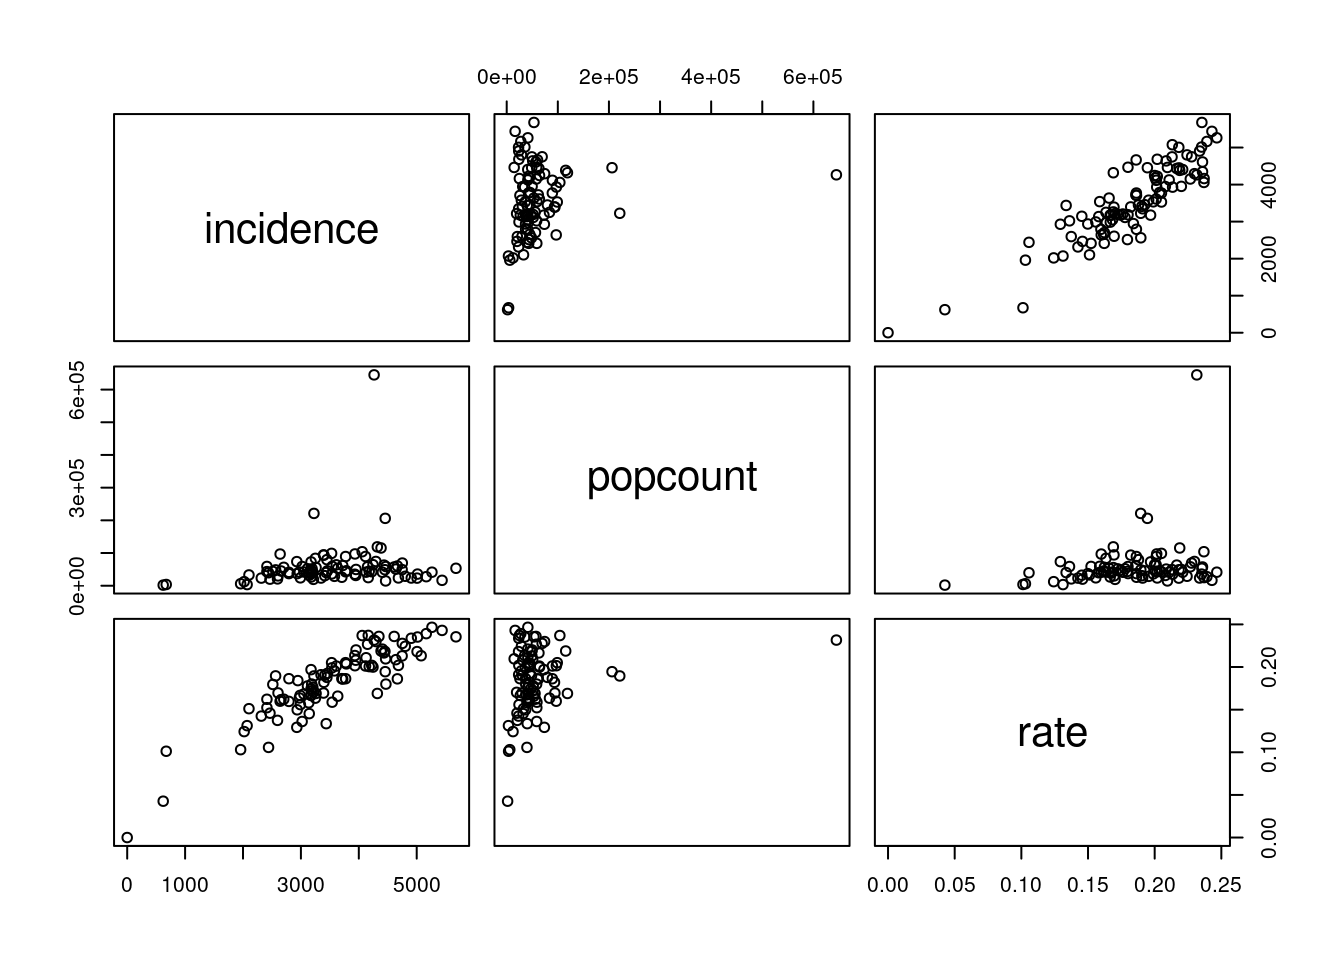
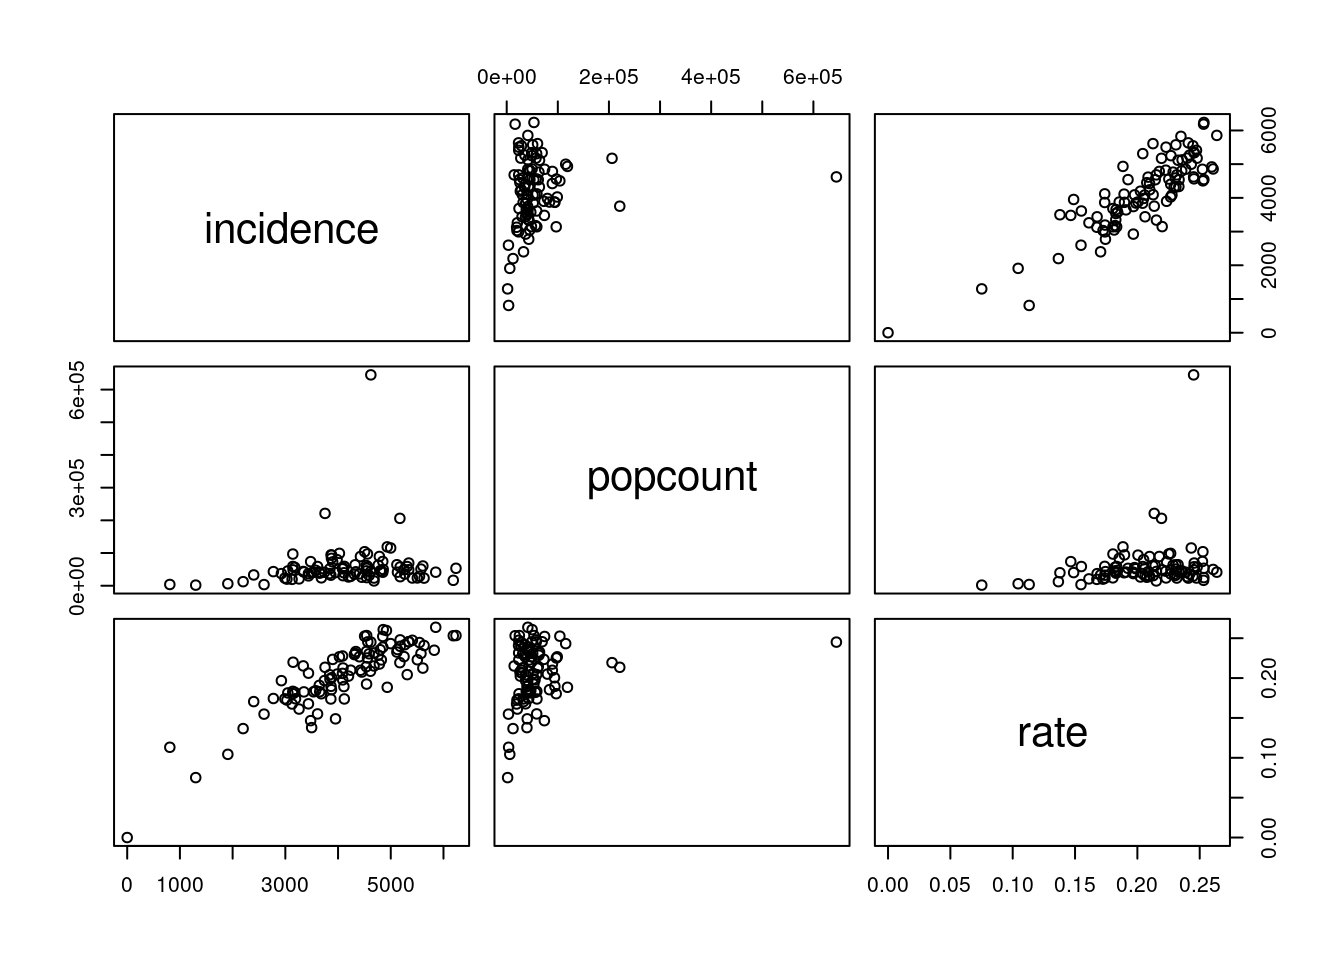
2022-01-24

diff --git a/docs/index.html b/docs/index.html
@@ -10,7 +10,7 @@
 
 
 
-<meta name="date" content="2022-01-21" />
+<meta name="date" content="2022-01-24" />
 
 <title>Covid-19 Stats for Denmark</title>
 
@@ -258,7 +258,7 @@ $(document).ready(function () {
 
 
 <h1 class="title toc-ignore">Covid-19 Stats for Denmark</h1>
-<h4 class="date">2022-01-21</h4>
+<h4 class="date">2022-01-24</h4>
 
 </div>
 
@@ -284,7 +284,10 @@ $(document).ready(function () {
 <ul>
 <li><a href="#visualizations">Visualizations</a></li>
 </ul></li>
-<li><a href="#muncipality-data">Muncipality data</a></li>
+<li><a href="#muncipality-data">Muncipality data</a>
+<ul>
+<li><a href="#analyzing-infections-over-population-counts">Analyzing infections over population counts</a></li>
+</ul></li>
 </ul>
 </div>
 
@@ -302,7 +305,7 @@ $(document).ready(function () {
 <pre class="r"><code>library(tidyverse)
 library(lubridate)</code></pre>
 <p>SSI’s data is in a zip file. We unpack this zip file into a directory of the general form <code>YYYY-MM-DD</code>. Lets set up a name for the current directory we want to grab data from</p>
-<pre class="r"><code>date &lt;- &quot;2022-01-21&quot;</code></pre>
+<pre class="r"><code>date &lt;- &quot;2022-01-24&quot;</code></pre>
 </div>
 <div id="ingesting-data" class="section level2">
 <h2>Ingesting data</h2>
@@ -344,7 +347,7 @@ library(lubridate)</code></pre>
                                       ))</code></pre>
 <pre><code>## ℹ Using &quot;&#39;,&#39;&quot; as decimal and &quot;&#39;.&#39;&quot; as grouping mark. Use `read_delim()` for more control.</code></pre>
 <pre class="r"><code>data</code></pre>
-<pre><code>## # A tibble: 6,596 × 9
+<pre><code>## # A tibble: 6,625 × 9
 ##    Region      Prøvetagningsdato Køn   `Bekræftede tilfælde`  Døde Indlæggelser
 ##    &lt;fct&gt;       &lt;date&gt;            &lt;fct&gt;                 &lt;dbl&gt; &lt;dbl&gt;        &lt;dbl&gt;
 ##  1 Sjælland    2020-02-26        M                         1     0            0
@@ -357,7 +360,7 @@ library(lubridate)</code></pre>
 ##  8 Hovedstaden 2020-03-03        F                         1     0            0
 ##  9 Hovedstaden 2020-03-03        M                         3     0            1
 ## 10 Hovedstaden 2020-03-04        M                         2     0            0
-## # … with 6,586 more rows, and 3 more variables: Kummuleret antal døde &lt;dbl&gt;,
+## # … with 6,615 more rows, and 3 more variables: Kummuleret antal døde &lt;dbl&gt;,
 ## #   Kummuleret antal bekræftede tilfælde &lt;dbl&gt;,
 ## #   Kummuleret antal indlæggelser &lt;dbl&gt;</code></pre>
 <p>We certainly don’t want to work with danish-named columns. Rather, we want small descriptive names which are easy to type. We send our dataset through a <code>rename</code> pass for this.</p>
@@ -372,7 +375,7 @@ library(lubridate)</code></pre>
 # Cut the cumulative columns away
 data &lt;- data %&gt;% select(region, date, gender, cases, deaths, hospitalizations)
 data</code></pre>
-<pre><code>## # A tibble: 6,596 × 6
+<pre><code>## # A tibble: 6,625 × 6
 ##    region      date       gender cases deaths hospitalizations
 ##    &lt;fct&gt;       &lt;date&gt;     &lt;fct&gt;  &lt;dbl&gt;  &lt;dbl&gt;            &lt;dbl&gt;
 ##  1 Sjælland    2020-02-26 M          1      0                0
@@ -385,7 +388,7 @@ data</code></pre>
 ##  8 Hovedstaden 2020-03-03 F          1      0                0
 ##  9 Hovedstaden 2020-03-03 M          3      0                1
 ## 10 Hovedstaden 2020-03-04 M          2      0                0
-## # … with 6,586 more rows</code></pre>
+## # … with 6,615 more rows</code></pre>
 <p>Provide a low cut-off. We are interested in the recent period with Omicron, rather than the full duration of Covid-19.</p>
 <pre class="r"><code>lo_cutoff &lt;- &#39;2021-09-01&#39;</code></pre>
 <p>The high end of that cutoff, we set to two days before the maximal date in our data set</p>
@@ -399,7 +402,7 @@ data</code></pre>
 # Put this into the summary
 summary &lt;- data
 summary</code></pre>
-<pre><code>## # A tibble: 1,400 × 6
+<pre><code>## # A tibble: 1,430 × 6
 ##    region      date       gender cases deaths hospitalizations
 ##    &lt;fct&gt;       &lt;date&gt;     &lt;fct&gt;  &lt;dbl&gt;  &lt;dbl&gt;            &lt;dbl&gt;
 ##  1 Hovedstaden 2021-09-01 F        210      0                7
@@ -412,7 +415,7 @@ summary</code></pre>
 ##  8 Nordjylland 2021-09-01 M         16      1                2
 ##  9 Sjælland    2021-09-01 M         37      0                3
 ## 10 Syddanmark  2021-09-01 M         41      0                1
-## # … with 1,390 more rows</code></pre>
+## # … with 1,420 more rows</code></pre>
 </div>
 <div id="weekly-key-figures-split-by-age" class="section level3">
 <h3>Weekly key figures split by age</h3>
@@ -437,11 +440,11 @@ summary</code></pre>
                         tested = &#39;Antal testede&#39;,
                         cases = &#39;Antal positive&#39;)
 data</code></pre>
-<pre><code>## # A tibble: 904 × 7
+<pre><code>## # A tibble: 913 × 7
 ##    week     ageGroup tested_100k cases_100k hospitalized_100k tested cases
 ##    &lt;chr&gt;    &lt;fct&gt;          &lt;dbl&gt;      &lt;dbl&gt;             &lt;dbl&gt;  &lt;dbl&gt; &lt;dbl&gt;
-##  1 2020-W04 00-2               0          0                 0      0     0
-##  2 2020-W04 03-5               0          0                 0      0     0
+##  1 2020-W04 00-02              0          0                 0      0     0
+##  2 2020-W04 03-05              0          0                 0      0     0
 ##  3 2020-W04 06-11              0          0                 0      0     0
 ##  4 2020-W04 12-15              0          0                 0      0     0
 ##  5 2020-W04 16-19              0          0                 0      0     0
@@ -450,7 +453,7 @@ data</code></pre>
 ##  8 2020-W04 65-79              0          0                 0      0     0
 ##  9 2020-W04 80+                0          0                 0      0     0
 ## 10 2020-W05 65-79              0          0                 0      1     0
-## # … with 894 more rows</code></pre>
+## # … with 903 more rows</code></pre>
 <p>Take a look at the <code>week</code> column. It reports a year, and a week number. We’ll need to handle this, by converting this into a date. We’ll do that by defining a fixup function. If we have a string such as <code>2020-W04</code>, it means the 4th week of 2020. To get a date, we need a day inside the week to use as the day-of-week. So we turn the string into <code>2020-W04-1</code>, then send it through <code>strptime()</code>, a general time-parsing function.</p>
 <pre class="r"><code>fixup_week &lt;- function(s) {
     # For strptime to do its work correctly, it must know a day of the week. Here, we
@@ -503,15 +506,15 @@ data</code></pre>
 ##     lau1 name      `Bekræftede tilf… Incidens cases incidence tested tested_100k
 ##    &lt;dbl&gt; &lt;fct&gt;                 &lt;dbl&gt;    &lt;dbl&gt; &lt;dbl&gt;     &lt;dbl&gt;  &lt;dbl&gt;       &lt;dbl&gt;
 ##  1   411 &quot;&quot;                        0       NA     0         0     87       95604
-##  2   101 &quot;Københa…            210039    32754 27343      4264 648079      101000
-##  3   147 &quot;Frederi…             31417    30445  4187      4058 110216      107000
-##  4   151 &quot;Balleru…             14400    29278  2335      4748  49513      101000
-##  5   153 &quot;Brøndby&quot;             12141    34068  1787      5014  35657      100000
-##  6   155 &quot;Dragør&quot;               4188    28669   652      4463  14357       98282
-##  7   157 &quot;Gentoft…             21308    28823  3175      4295  74938      101000
-##  8   159 &quot;Gladsax…             20856    30161  3285      4751  71019      103000
-##  9   161 &quot;Glostru…              7427    31715  1149      4906  24076      103000
-## 10   163 &quot;Herlev&quot;               9597    33344  1382      4802  29408      102000
+##  2   101 &quot;Københa…            222150    34643 29642      4622 649229      101000
+##  3   147 &quot;Frederi…             33333    32302  4648      4504 110457      107000
+##  4   151 &quot;Balleru…             15531    31578  2583      5252  49592      101000
+##  5   153 &quot;Brøndby&quot;             12983    36430  1877      5267  35745      100000
+##  6   155 &quot;Dragør&quot;               4506    30846   684      4682  14394       98535
+##  7   157 &quot;Gentoft…             22843    30899  3584      4848  75089      102000
+##  8   159 &quot;Gladsax…             22287    32231  3693      5341  71159      103000
+##  9   161 &quot;Glostru…              7971    34038  1267      5410  24132      103000
+## 10   163 &quot;Herlev&quot;              10254    35626  1596      5545  29460      102000
 ## # … with 89 more rows, and 3 more variables: tested_1w &lt;dbl&gt;,
 ## #   tested_100k_1w &lt;dbl&gt;, population &lt;dbl&gt;</code></pre>
 <pre class="r"><code>muncipalities &lt;- data</code></pre>
@@ -629,7 +632,7 @@ plot_regions(p, &quot;Regional split of cases, DK&quot;,
 <h2>Weekly data</h2>
 <p>As with the case for daily key figures, we can also use the weekly key figures. An important point of this data set is that the <code>ageGroup</code> are not a continous variable, but a discrete set of groups, non-uniformly spaced in between:</p>
 <pre class="r"><code>levels(factor(weekly$ageGroup))</code></pre>
-<pre><code>## [1] &quot;06-11&quot; &quot;12-15&quot; &quot;16-19&quot; &quot;20-39&quot; &quot;40-64&quot; &quot;65-79&quot; &quot;80+&quot;   &quot;00-02&quot; &quot;03-05&quot;</code></pre>
+<pre><code>## [1] &quot;00-02&quot; &quot;03-05&quot; &quot;06-11&quot; &quot;12-15&quot; &quot;16-19&quot; &quot;20-39&quot; &quot;40-64&quot; &quot;65-79&quot; &quot;80+&quot;</code></pre>
 <p>Why this is so is a good question. My bet is that it captures schooling groups among the youngest, splits adults into younger and older adults pivoting on 40, and handles the elderly in two large groups as well. However, it also means direct comparison between groups is somewhat dangerous.</p>
 <div id="visualizations" class="section level3">
 <h3>Visualizations</h3>
@@ -671,23 +674,21 @@ muncipalities$incidence_type &lt;- ifelse(muncipalities$incidence_z &lt; 0, &quo
 muncipalities$rate_z &lt;- round(muncipalities$rate - mean(muncipalities$rate), 5)
 muncipalities$rate_type &lt;- ifelse(muncipalities$rate_z &lt; 0, &quot;Below mean&quot;, &quot;Above mean&quot;)
 muncipalities$rate</code></pre>
-<pre><code>##  [1] 0.00000000 0.23159473 0.23692847 0.21302801 0.23519347 0.20957891
-##  [7] 0.22985593 0.22769807 0.23372661 0.22427783 0.23915237 0.23540431
-## [13] 0.21322012 0.22672103 0.24659864 0.21810312 0.20195440 0.24293478
-## [19] 0.21087172 0.18636806 0.22098841 0.21653176 0.16580889 0.23708487
-## [25] 0.23587356 0.20045435 0.20364921 0.20861779 0.18586515 0.20798249
-## [31] 0.20120383 0.20192133 0.17612420 0.15112963 0.19693225 0.18001828
-## [37] 0.18960760 0.21344486 0.18784682 0.19095111 0.16959826 0.19548585
-## [43] 0.13357962 0.16347774 0.18610817 0.19254429 0.10572494 0.15804890
-## [49] 0.15967562 0.17775571 0.15584979 0.14534716 0.19452642 0.15876633
-## [55] 0.18405553 0.12424850 0.10305677 0.16901144 0.16663384 0.12924681
-## [61] 0.14983352 0.21878515 0.13123845 0.22000224 0.20508561 0.13611197
-## [67] 0.17227640 0.16946371 0.18204231 0.16898026 0.18625929 0.17996417
-## [73] 0.17030568 0.13742988 0.17956707 0.18630286 0.21827666 0.14244186
-## [79] 0.20508295 0.20152833 0.10121457 0.19992677 0.23588274 0.16838352
-## [85] 0.16224882 0.17453271 0.14585179 0.16168717 0.16216638 0.15991231
-## [91] 0.19897324 0.15230224 0.16671793 0.04263566 0.19035487 0.16373263
-## [97] 0.16721992 0.18952021 0.20110024</code></pre>
+<pre><code>##  [1] 0.0000000 0.2451150 0.2525538 0.2269173 0.2418814 0.2151620 0.2521990
+##  [8] 0.2455942 0.2474126 0.2445602 0.2398654 0.2533649 0.2349310 0.2454257
+## [15] 0.2637087 0.2408570 0.2085766 0.2531110 0.2358711 0.2075506 0.2387398
+## [22] 0.2286676 0.1924886 0.2533303 0.2479256 0.2227898 0.2355594 0.2308635
+## [29] 0.2143077 0.2304606 0.2175883 0.2229983 0.1968474 0.1704989 0.2234386
+## [36] 0.2041840 0.2198900 0.2294261 0.2050003 0.2315967 0.2061588 0.2099151
+## [43] 0.1488740 0.1854396 0.2125181 0.2334431 0.1378691 0.1893402 0.1827604
+## [50] 0.1987813 0.1803346 0.1737912 0.2193578 0.1738136 0.2277079 0.1366397
+## [57] 0.1043557 0.1977416 0.2024629 0.1465828 0.1677052 0.2432182 0.1547826
+## [64] 0.2607707 0.2332575 0.1550751 0.2058766 0.1896597 0.2004756 0.1884416
+## [71] 0.2097839 0.2043301 0.1674945 0.1611521 0.2152798 0.1967572 0.2454409
+## [78] 0.1740000 0.2266819 0.2252261 0.1132075 0.2326404 0.2596552 0.1826835
+## [85] 0.1821151 0.1841875 0.1724432 0.1813855 0.1743829 0.1804194 0.2267425
+## [92] 0.1833697 0.1740502 0.0751634 0.2126398 0.1908599 0.1829044 0.2135254
+## [99] 0.2309109</code></pre>
 <pre class="r"><code>ggplot(muncipalities %&gt;% mutate(name = fct_reorder(name, rate)), aes(x=name, y=rate)) +
   geom_bar(stat=&#39;identity&#39;, aes(fill=rate_type), width=.5)  +
   scale_colour_brewer(palette=&quot;Set2&quot;) +
@@ -700,7 +701,9 @@ muncipalities$rate</code></pre>
        caption = &quot;Source: ssi.dk&quot;) +
   coord_flip()</code></pre>
 <p><img src="index_files/figure-html/muncipality-rate-overview-1.png" width="672" /></p>
-<p>Read in Popcount:</p>
+<div id="analyzing-infections-over-population-counts" class="section level3">
+<h3>Analyzing infections over population counts</h3>
+<p>Read in Popcount. These can be obtained by Danmarks Statistik, by query on <code>FOLK1AM</code> in their data bank:</p>
 <pre class="r"><code>read_data_2 &lt;- function(f) {
     raw &lt;- readBin(f, &quot;raw&quot;, n = file.size(f))
     x_utf8 &lt;- iconv(list(raw), from = &quot;ISO-8859-1&quot;, to = &quot;UTF-8&quot;, toRaw = TRUE)[[1]]
@@ -713,7 +716,7 @@ muncipalities$rate</code></pre>
 popcount &lt;- read_data_2(&quot;./data/DS/2022121185617360647690FOLK1AM68563293012.csv&quot;)</code></pre>
 <pre><code>## ℹ Using &quot;&#39;,&#39;&quot; as decimal and &quot;&#39;.&#39;&quot; as grouping mark. Use `read_delim()` for more control.</code></pre>
 <pre><code>## Rows: 103 Columns: 4</code></pre>
-<pre><code>## ── Column specification ─────────────────────────────────────────────────────────────────────────────────────────────────────────────────────────────────
+<pre><code>## ── Column specification ────────────────────────────────────────────────────────
 ## Delimiter: &quot;;&quot;
 ## chr (3): X1, X2, X3
 ## dbl (1): X4</code></pre>
@@ -737,7 +740,7 @@ popcount</code></pre>
 ##  9 Gladsaxe         69321
 ## 10 Glostrup         23519
 ## # … with 93 more rows</code></pre>
-<p>Join the tables</p>
+<p>Join the tables, which will happen on the muncipality name. I would have liked a better key for the join, but this will do:</p>
 <pre class="r"><code>muncipalities &lt;- muncipalities %&gt;% left_join(popcount)</code></pre>
 <pre><code>## Joining, by = &quot;name&quot;</code></pre>
 <pre class="r"><code>muncipalities %&gt;% select(name, incidence, popcount)</code></pre>
@@ -745,17 +748,17 @@ popcount</code></pre>
 ##    name            incidence popcount
 ##    &lt;chr&gt;               &lt;dbl&gt;    &lt;dbl&gt;
 ##  1 &quot;&quot;                      0       NA
-##  2 &quot;København&quot;          4264   644987
-##  3 &quot;Frederiksberg&quot;      4058   103963
-##  4 &quot;Ballerup&quot;           4748    49228
-##  5 &quot;Brøndby&quot;            5014    35535
-##  6 &quot;Dragør&quot;             4463    14602
-##  7 &quot;Gentofte&quot;           4295    74154
-##  8 &quot;Gladsaxe&quot;           4751    69321
-##  9 &quot;Glostrup&quot;           4906    23519
-## 10 &quot;Herlev&quot;             4802    28861
+##  2 &quot;København&quot;          4622   644987
+##  3 &quot;Frederiksberg&quot;      4504   103963
+##  4 &quot;Ballerup&quot;           5252    49228
+##  5 &quot;Brøndby&quot;            5267    35535
+##  6 &quot;Dragør&quot;             4682    14602
+##  7 &quot;Gentofte&quot;           4848    74154
+##  8 &quot;Gladsaxe&quot;           5341    69321
+##  9 &quot;Glostrup&quot;           5410    23519
+## 10 &quot;Herlev&quot;             5545    28861
 ## # … with 89 more rows</code></pre>
-<p>Now, test correlation:</p>
+<p>Now, test correlation via Pearson:</p>
 <pre class="r"><code>plot(muncipalities$incidence, muncipalities$popcount)</code></pre>
 <p><img src="index_files/figure-html/correlation-popcount-incidence-1.png" width="672" /></p>
 <pre class="r"><code>cor.test(muncipalities$incidence, muncipalities$popcount)</code></pre>
@@ -763,13 +766,13 @@ popcount</code></pre>
 ##  Pearson&#39;s product-moment correlation
 ## 
 ## data:  muncipalities$incidence and muncipalities$popcount
-## t = 1.6662, df = 92, p-value = 0.09908
+## t = 1.4364, df = 92, p-value = 0.1543
 ## alternative hypothesis: true correlation is not equal to 0
 ## 95 percent confidence interval:
-##  -0.0326010  0.3612368
+##  -0.0562027  0.3405001
 ## sample estimates:
 ##       cor 
-## 0.1711465</code></pre>
+## 0.1481008</code></pre>
 <p>Clearly, this argues there are no strong connection between population count, and the incidence in a given muncipality.</p>
 <p>Analyzing the rate shows there’s a connection between it and incidence, but this is more expected:</p>
 <pre class="r"><code>pairs(muncipalities %&gt;% select(incidence,popcount,rate))</code></pre>
@@ -779,13 +782,14 @@ popcount</code></pre>
 ##  Pearson&#39;s product-moment correlation
 ## 
 ## data:  muncipalities$incidence and muncipalities$rate
-## t = 18.663, df = 97, p-value &lt; 2.2e-16
+## t = 16.696, df = 97, p-value &lt; 2.2e-16
 ## alternative hypothesis: true correlation is not equal to 0
 ## 95 percent confidence interval:
-##  0.8323110 0.9210168
+##  0.7999035 0.9048624
 ## sample estimates:
 ##       cor 
-## 0.8844076</code></pre>
+## 0.8613061</code></pre>
+</div>
 </div>
 
 
